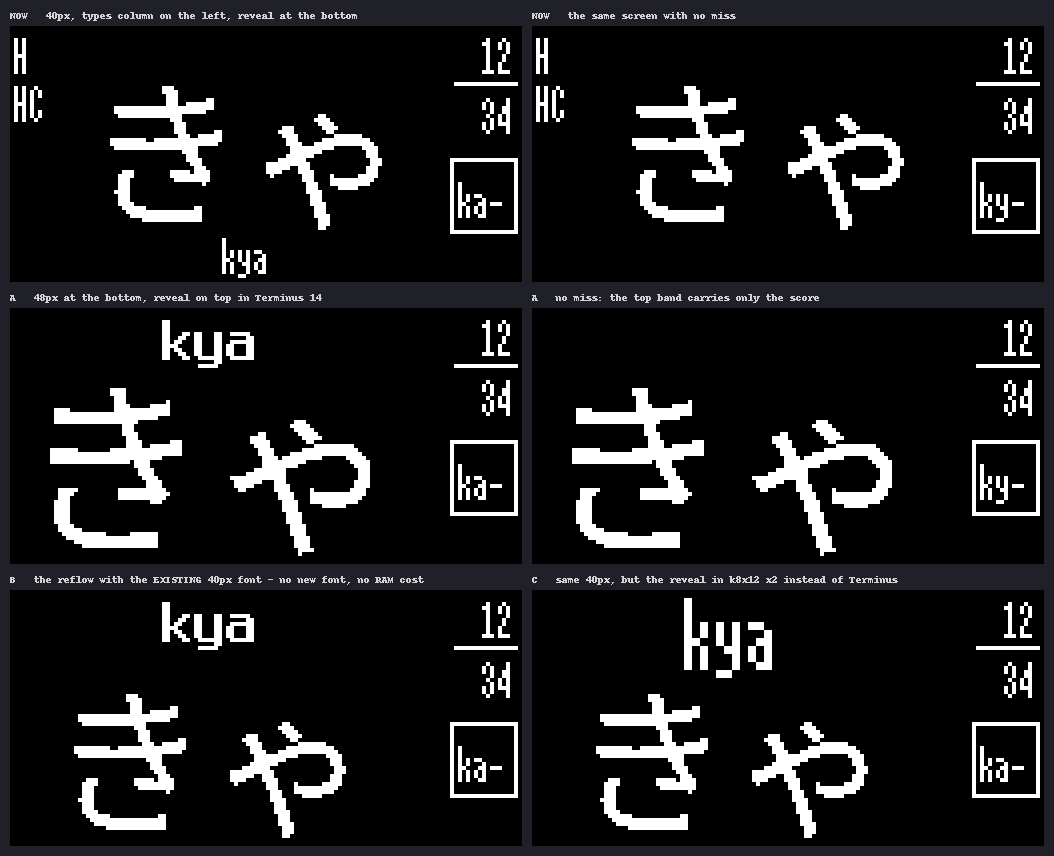
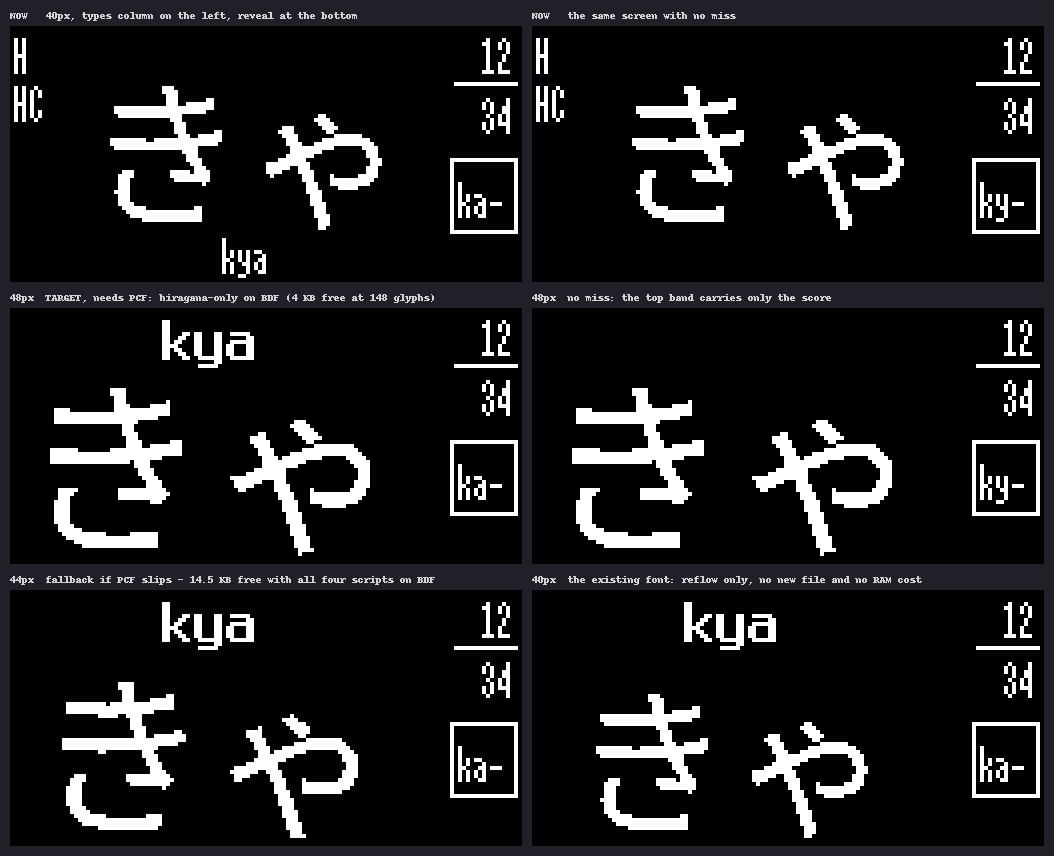
Target 48px for the drill reflow, making PCF a prerequisite
Assumes PCF has landed by the time the reflow is built, so the prompt
gets the biggest font rather than the biggest one that fits as a
resident BDF. Logged from both ends: the backlog item names PCF as a
hard prerequisite, and the PCF follow-up now says it is a requirement
rather than only a boot-speed win, so it does not get deprioritised on
its own.

All three sizes stay on record with their measured prompt_y (40px y=42,
44px y=40, 48px y=38) and their BDF RAM cost, and the mockup renders all
three. The pick is deferred to build time: 44px is the fallback that
still fits every deck without PCF, and the reflow alone at 40px costs
nothing.

diff --git a/Firmware/PLAN.md b/Firmware/PLAN.md
@@ -284,24 +284,34 @@ Mockups: `mockups/drill_reflow.png` (variants) and `drill_reflow_cases.png`
   was accepted: the alternative is a reveal that shoves the prompt around
   when it appears.
 
-**The size is a RAM decision, not a taste one.** Measured pool is ~70.5 KB at
-312 B per 40 px glyph, so scaling by glyph area:
+**48 px is the target, and that makes PCF a HARD PREREQUISITE** (decided
+2026-08-29). On BDF the whole prompt font is resident, and the size is a RAM
+decision rather than a taste one. Measured pool is ~70.5 KB at 312 B per 40 px
+glyph, so scaling by glyph area:
 
-    40px  312 B/glyph   hiragana (71): 48.3 KB free   all four (148): 24.3 KB
-    44px  378 B/glyph   hiragana:      43.6 KB free   all four:       14.5 KB
-    48px  449 B/glyph   hiragana:      38.6 KB free   all four:        4.0 KB
+| size | B/glyph | prompt_y | hiragana (71) | all four (148) | on BDF |
+|---|---|---|---|---|---|
+| 40 px | 312 | 42 | 48.3 KB free | 24.3 KB free | ships today |
+| 44 px | 378 | 40 | 43.6 KB free | 14.5 KB free | workable |
+| 48 px | 449 | 38 | 38.6 KB free | **4.0 KB free** | fails on a full deck |
 
-**48 px cannot hold all four scripts.** 4 KB is under the preload peak, so it
-would fail exactly when someone enables everything. Three ways out: ship 48 px
-and have the drill drop a size for large decks, ship 44 px as the safe
-maximum, or do the reflow with the existing 40 px font and take the layout win
-for free (variant B in the mockup, already a clear improvement on today's
-screen). PCF — the open item in the boot-time section — removes the
-constraint entirely by loading glyphs on demand.
+4 KB is under the preload peak, so a 48 px BDF would break exactly when
+someone enables all four scripts. **PCF removes the constraint outright**:
+glyphs load on demand in ~ms and RAM stays proportional to what is actually on
+screen, so the resident-font arithmetic above stops applying. See the PCF
+follow-up in the boot-time section — it is no longer only a boot-speed item,
+this feature depends on it.
 
-The 44/48 px BDFs do not exist yet; they are one `tools/ttf2bdf.py` run from
-Noto Sans JP, which is OFL and redistributable. The mockups were rendered from
-throwaway copies in the scratchpad — nothing was committed.
+All three sizes are recorded above with their measured `prompt_y` so the final
+pick is a constants change and not a re-derivation — the mockup renders all
+three, and the choice is deferred until build time. If PCF slips, 44 px is the
+fallback that still fits every deck, and the reflow alone at 40 px is already
+a clear improvement on today's screen at zero cost.
+
+The 44/48 px BDFs do not exist yet; each is one `tools/ttf2bdf.py` run from
+Noto Sans JP, which is OFL and redistributable (`bdf2pcf` then converts).
+The mockups were rendered from throwaway copies in the scratchpad — nothing
+was committed.
 
 
 
@@ -406,6 +416,11 @@ do the same against the jp font (~1.2 s each) until warm. Two fixes:
   `bdftopcf` is a C tool that is awkward on Windows). Keep BDFs in the repo as
   source for `tools/render.py`, ship PCFs to the device. Verify by reparsing the
   PCF and comparing every glyph bitmap against the BDF it came from.
+
+  **This is now a REQUIREMENT, not just a speed win** (2026-08-29): backlog
+  item 3 (drill screen reflow) targets a 48 px prompt, which does not fit in
+  RAM as a resident BDF once all four scripts are enabled. PCF is what makes
+  the biggest prompt font possible at all, so it lands before that feature.
 
 ### Two crash bugs this uncovered (both fixed 2026-08-27)
 
